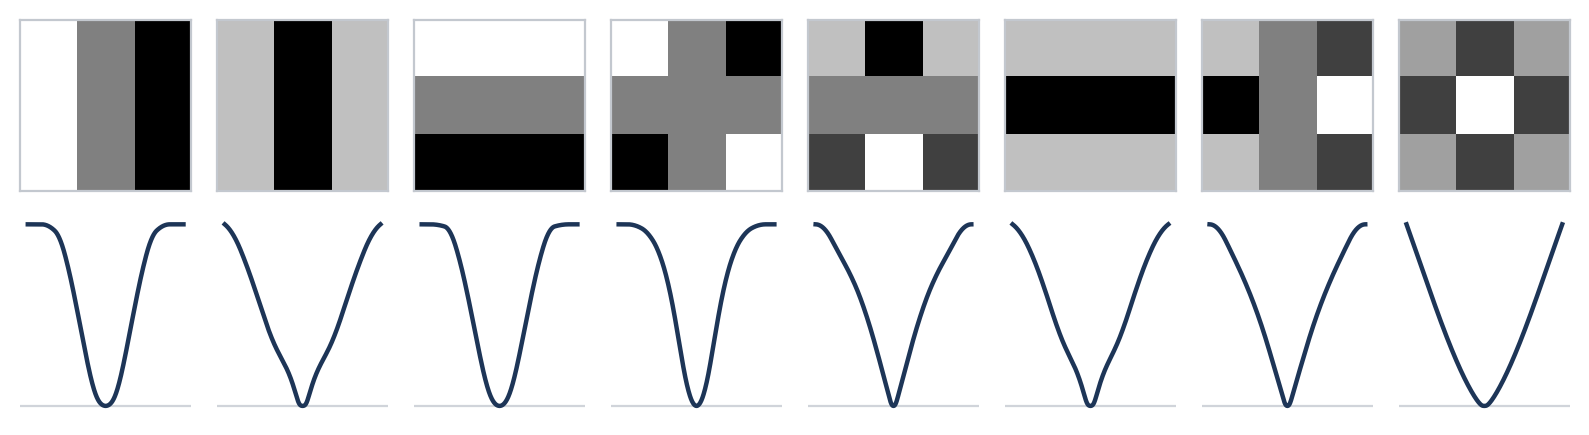
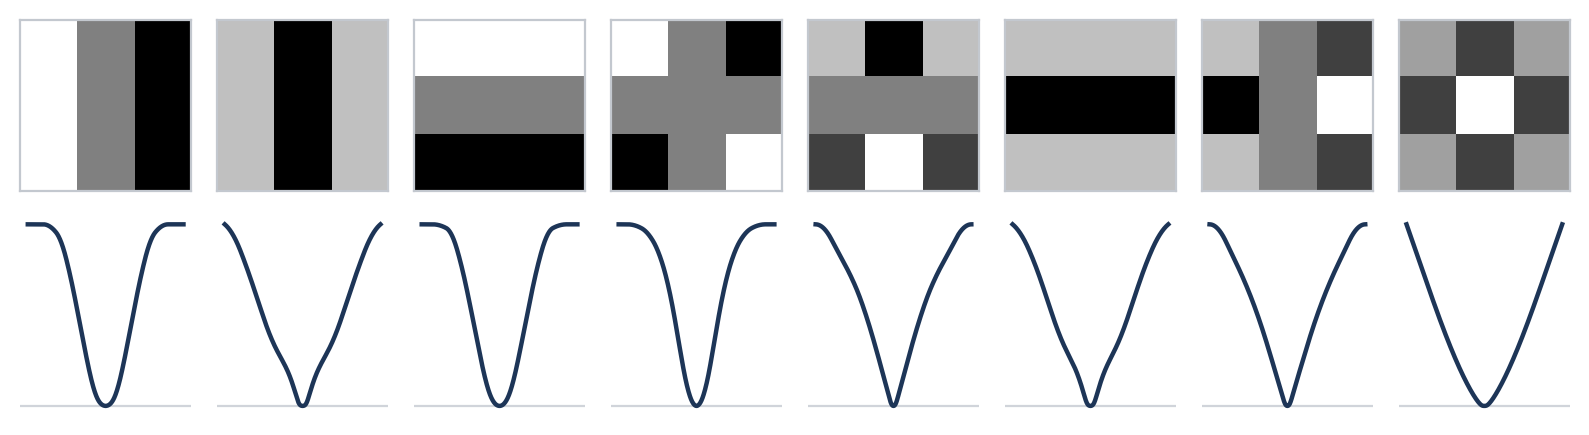
[doc] Write noise levels as plain values.

diff --git a/examples/deblur.py b/examples/deblur.py
@@ -19,13 +19,13 @@ import explicit_priors as ep
 p = argparse.ArgumentParser()
 p.add_argument("--data", required=True)
 p.add_argument("--blur", type=float, default=1.6, help="std of the Gaussian blur, in pixels")
-p.add_argument("--noise", type=float, default=2.55, help="noise std, in 1/255")
-p.add_argument("--sigma", type=float, default=15.0, help="noise std the prior is fitted at, in 1/255")
+p.add_argument("--noise", type=float, default=0.01, help="noise std")
+p.add_argument("--sigma", type=float, default=0.06, help="noise std the prior is fitted at")
 p.add_argument("--iters", type=int, default=300)
 a = p.parse_args()
-noise = a.noise / 255
+noise = a.noise
 
-prior = ep.fit(ep.filters.dct(7), load(f"{a.data}/train"), sigma=a.sigma / 255, objective="map")
+prior = ep.fit(ep.filters.dct(7), load(f"{a.data}/train"), sigma=a.sigma, objective="map")
 
 
 def blur_operator(shape):
@@ -56,4 +56,4 @@ for x in load(f"{a.data}/Set12"):
         xh = ep.fista(fun, y[None], a.iters)[0]
     before.append(psnr(y, x))
     after.append(psnr(xh, x))
-print(f"Set12, blur {a.blur} px, noise {a.noise}/255: {sum(before) / 12:.2f} dB -> {sum(after) / 12:.2f} dB")
+print(f"Set12, blur {a.blur} px, noise {a.noise}: {sum(before) / 12:.2f} dB -> {sum(after) / 12:.2f} dB")

diff --git a/examples/denoise.py b/examples/denoise.py
@@ -1,7 +1,7 @@
 """
 Fit a prior on BSD400, denoise Set12 and BSD68.
 
-    python examples/denoise.py --data path/to/BSD --sigma 25 --objective map
+    python examples/denoise.py --data path/to/BSD --sigma 0.1 --objective map
 
 --data holds train/ (400 images), Set12/ and Set68/.
 """
@@ -22,12 +22,12 @@ BANKS = {
 
 p = argparse.ArgumentParser()
 p.add_argument("--data", required=True)
-p.add_argument("--sigma", type=float, default=25.0, help="noise std, in 1/255")
+p.add_argument("--sigma", type=float, default=0.1, help="noise std")
 p.add_argument("--objective", default="mse", choices=["mse", "map"])
 p.add_argument("--filters", default="dct7", help=f"{' | '.join(BANKS)} | path to a (K, s, s) tensor")
 p.add_argument("--refine", type=int, default=0, help="Gauss-Newton steps (map)")
 a = p.parse_args()
-s = a.sigma / 255
+s = a.sigma
 
 filters = BANKS[a.filters]() if a.filters in BANKS else torch.load(a.filters)
 train = load(f"{a.data}/train")

diff --git a/examples/learn_filters.py b/examples/learn_filters.py
@@ -1,7 +1,7 @@
 """
 Learn filters with their potentials, then compare them with the DCT bank under the same fit.
 
-    python examples/learn_filters.py --data path/to/BSD --sigma 12.75 --filters 16
+    python examples/learn_filters.py --data path/to/BSD --sigma 0.05 --filters 16
 """
 
 import argparse
@@ -14,13 +14,13 @@ import explicit_priors as ep
 
 p = argparse.ArgumentParser()
 p.add_argument("--data", required=True)
-p.add_argument("--sigma", type=float, default=12.75, help="noise std, in 1/255")
+p.add_argument("--sigma", type=float, default=0.05, help="noise std")
 p.add_argument("--filters", type=int, default=16)
 p.add_argument("--size", type=int, default=7)
 p.add_argument("--steps", type=int, default=1500)
 p.add_argument("--save", default=None, help="where to save the learned filters")
 a = p.parse_args()
-s = a.sigma / 255
+s = a.sigma
 
 train, test = load(f"{a.data}/train"), load(f"{a.data}/Set68")
 t0 = time.perf_counter()

diff --git a/doc/make_figures.py b/doc/make_figures.py
@@ -19,12 +19,12 @@ import explicit_priors as ep  # noqa: E402
 p = argparse.ArgumentParser()
 p.add_argument("--data", required=True)
 p.add_argument("--filters", default="dct3", help="dct3 | learned | path to a (K, s, s) tensor")
-p.add_argument("--sigma", type=float, default=25.0)
+p.add_argument("--sigma", type=float, default=0.1)
 p.add_argument("--size", type=int, default=7)
 p.add_argument("--steps", type=int, default=1500)
 p.add_argument("--out", default=str(Path(__file__).resolve().parent / "potentials.png"))
 a = p.parse_args()
-s = a.sigma / 255
+s = a.sigma
 
 train = load(f"{a.data}/train")
 if a.filters == "learned":

diff --git a/src/explicit_priors/learn.py b/src/explicit_priors/learn.py
@@ -48,7 +48,7 @@ def learn_filters(
     images,
     n_filters: int = 16,
     size: int = 7,
-    sigma: float = 25 / 255,
+    sigma: float = 0.1,
     steps: int = 1000,
     batch: int = 16,
     crop: int = 96,

diff --git a/README.md b/README.md
@@ -6,7 +6,7 @@
 Explicit Priors fits fields-of-experts image priors in closed form: one linear solve, no training loop.
 
 <p align="center"><img src="doc/potentials.png" width="720" alt="3x3 DCT filters and their MAP potentials"></p>
-<p align="center"><sub>3×3 DCT filters and their MAP potentials, noise 25/255, 400 BSD images:
+<p align="center"><sub>3×3 DCT filters and their MAP potentials, noise 0.1, 400 BSD images:
 <code>python doc/make_figures.py --data path/to/BSD</code></sub></p>
 
 ## Setup

diff --git a/doc/index.rst b/doc/index.rst
@@ -69,7 +69,7 @@ Usage
 
    import explicit_priors as ep
 
-   prior = ep.fit(ep.filters.dct(7), images, sigma=25 / 255, objective="map")
+   prior = ep.fit(ep.filters.dct(7), images, sigma=0.1, objective="map")
    x = ep.denoise(prior, y)
 
 
